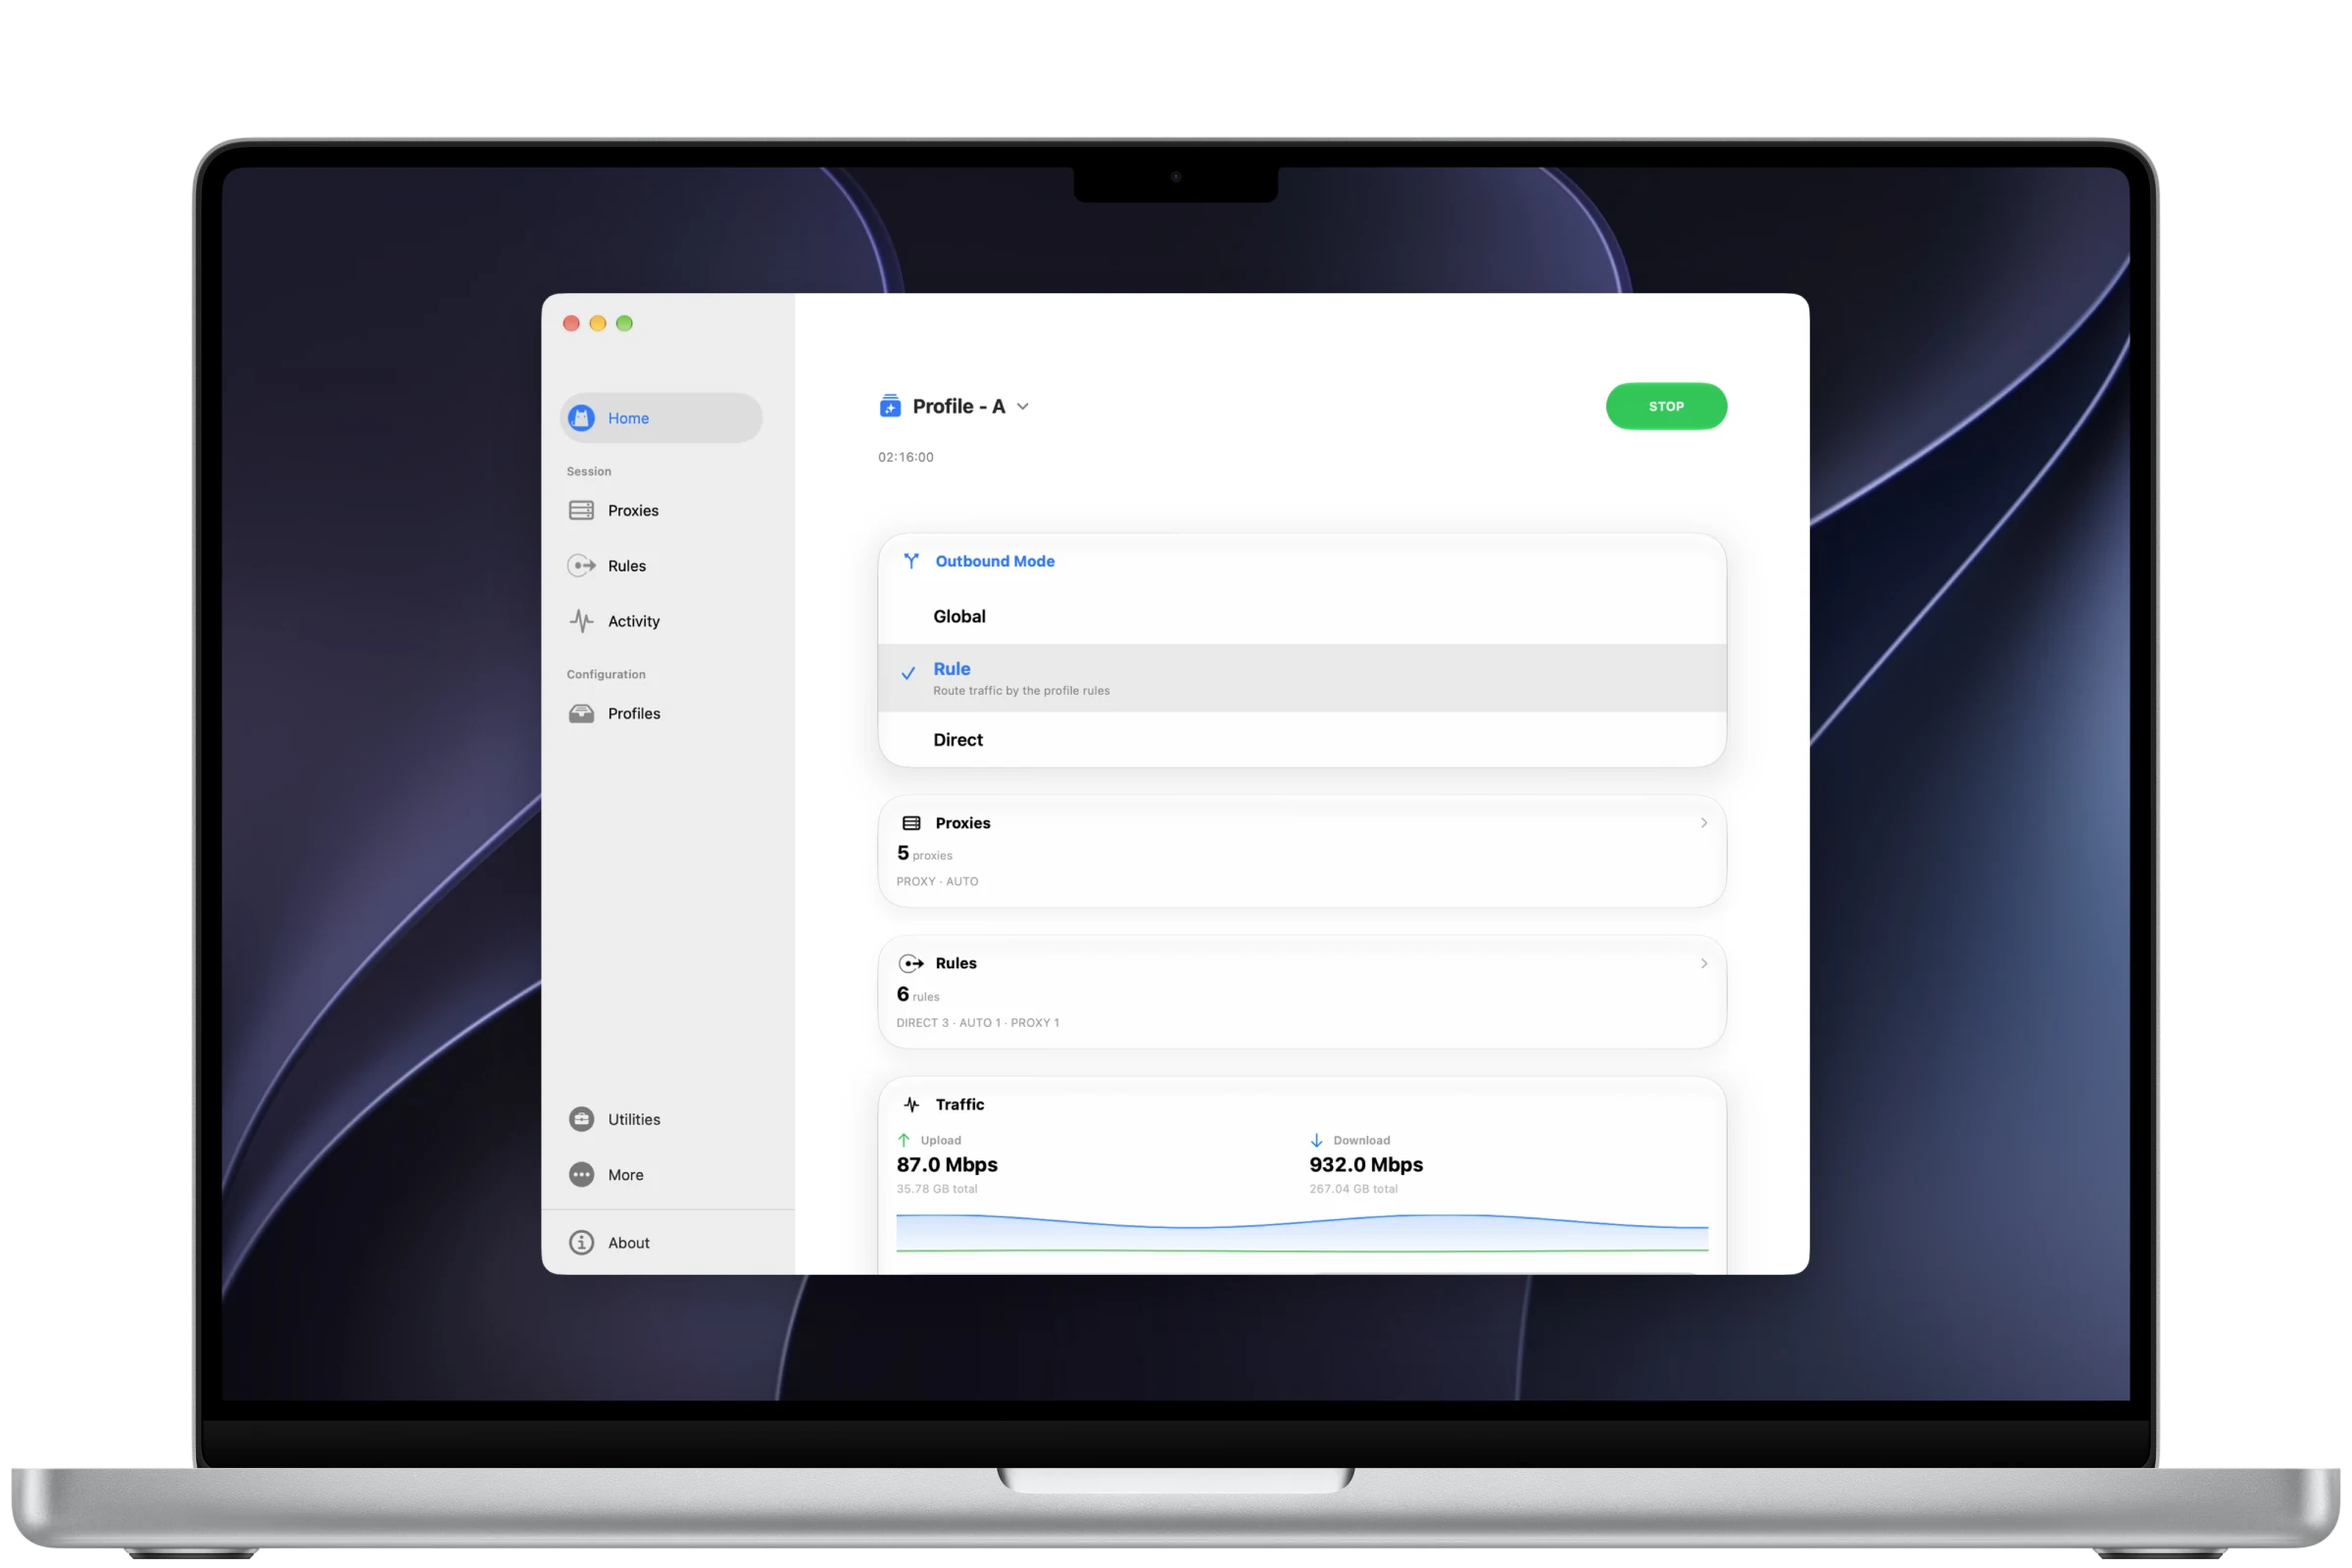
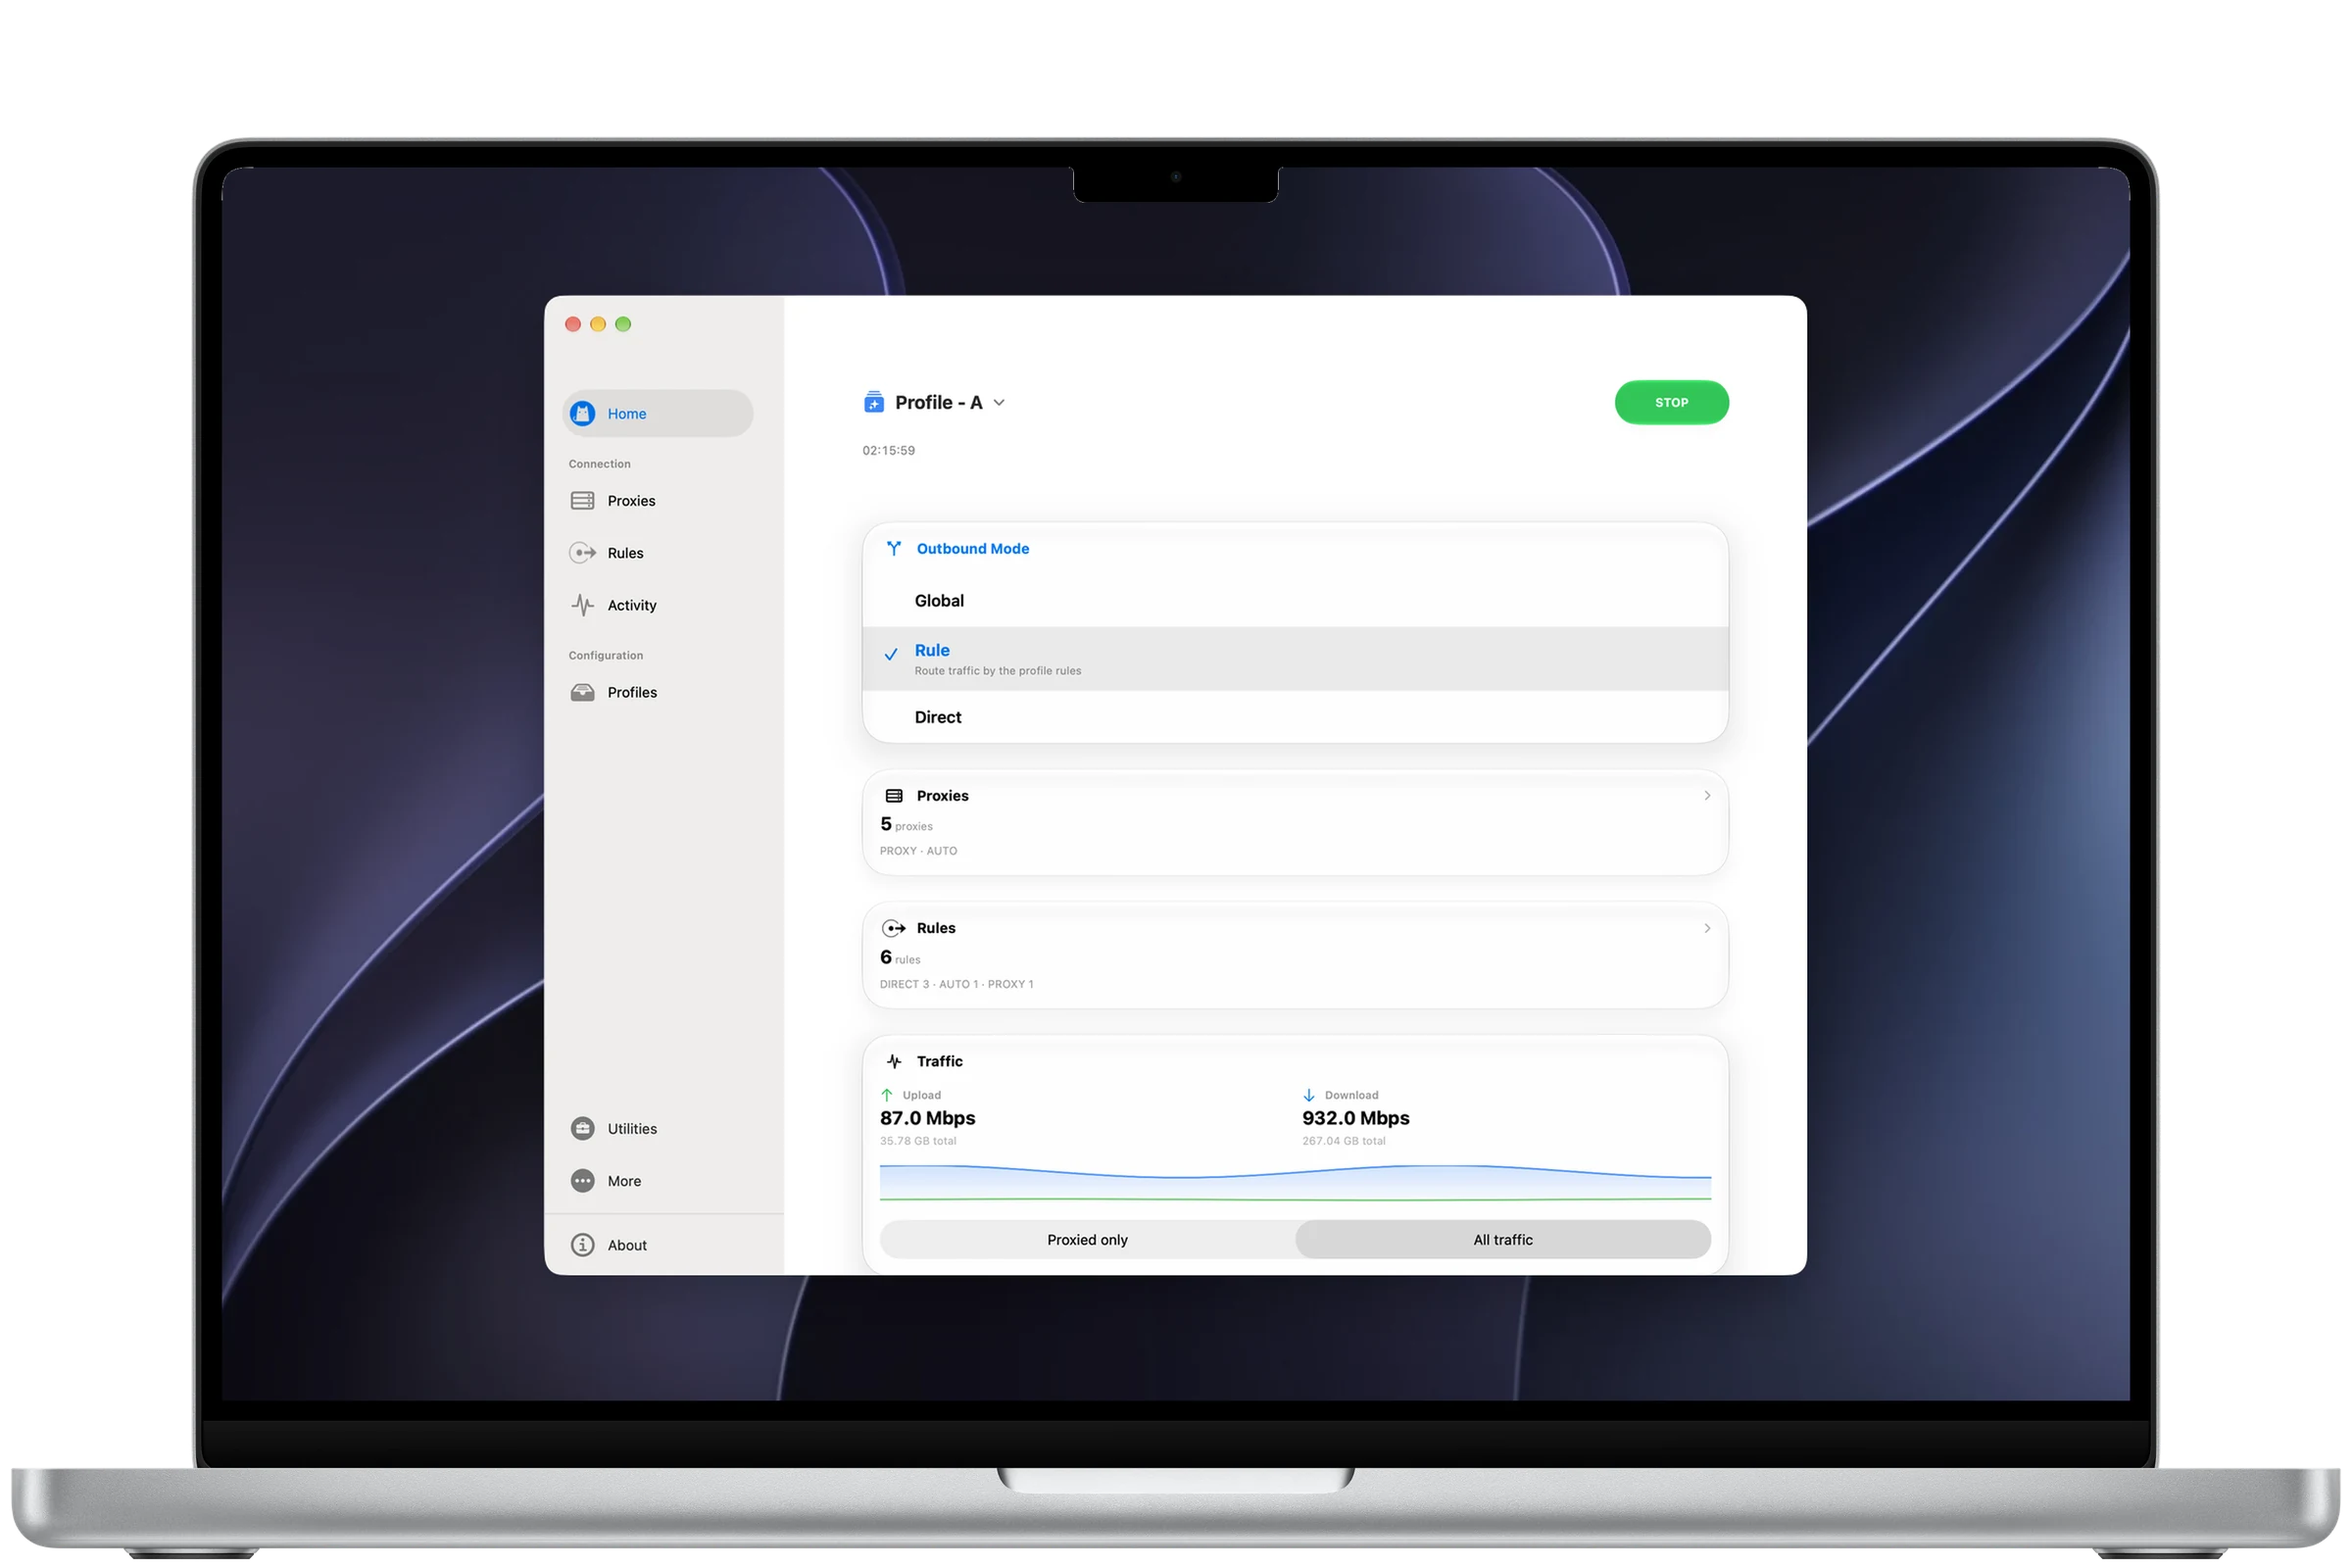
docs: Mac mode switches keep connections; refresh Mac screenshots
A test on a connected Mac confirmed what the code says: switching between
Rule, Global, and Direct leaves existing connections on their route,
except the first switch to Global when the app must pick a GLOBAL node
and Close connections on node switch is on. The Mac guide and the
everyday-use table now say so for Mac as well as iPhone and iPad.

Mac screenshots show the current sidebar, Profile Center with its three
libraries, Proxies, Rules, and Utilities, and add Activity. New windows
are placed where the old ones sat on the same wallpaper; the MacBook
frame is rendered from the same bezel. All data is example data.

Claude-Session: https://claude.ai/code/session_015AeJZnER4qeabBoE5b48Ke

diff --git a/docs/zh/platforms/macos.md b/docs/zh/platforms/macos.md
@@ -42,6 +42,6 @@ pageClass: clash-platform-page
   <article><span>06</span><h3>真正像一个 Mac App</h3><p>原生窗口、键盘、鼠标与菜单栏，用起来就是你熟悉的桌面体验。</p></article>
 </div></section>
 
-<section class="platform-gallery-section"><div class="platform-detail-heading"><p class="section-kicker">近一点看</p><h2>需要时看清楚，其余时间安静待着。</h2></div><div class="platform-screenshot-rail platform-screenshot-rail--wide" aria-label="Clash Mac 版截图"><img src="/screenshots/platforms/macos/gallery/zh-01.webp" alt="Mac 首页" loading="lazy"><img src="/screenshots/platforms/macos/gallery/zh-02.webp" alt="Mac 配置列表" loading="lazy"><img src="/screenshots/platforms/macos/gallery/zh-03.webp" alt="Mac 策略组" loading="lazy"><img src="/screenshots/platforms/macos/gallery/zh-04.webp" alt="Mac 分流规则" loading="lazy"><img src="/screenshots/platforms/macos/gallery/zh-05.webp" alt="Mac 网络工具" loading="lazy"></div></section>
+<section class="platform-gallery-section"><div class="platform-detail-heading"><p class="section-kicker">近一点看</p><h2>需要时看清楚，其余时间安静待着。</h2></div><div class="platform-screenshot-rail platform-screenshot-rail--wide" aria-label="Clash Mac 版截图"><img src="/screenshots/platforms/macos/gallery/zh-01.webp" alt="Mac 首页" loading="lazy"><img src="/screenshots/platforms/macos/gallery/zh-02.webp" alt="Mac 配置列表" loading="lazy"><img src="/screenshots/platforms/macos/gallery/zh-03.webp" alt="Mac 策略组" loading="lazy"><img src="/screenshots/platforms/macos/gallery/zh-04.webp" alt="Mac 分流规则" loading="lazy"><img src="/screenshots/platforms/macos/gallery/zh-05.webp" alt="Mac 网络工具" loading="lazy"><img src="/screenshots/platforms/macos/gallery/zh-06.webp" alt="Mac 活动：线路汇总与连接" loading="lazy"></div></section>
 
 <section class="platform-privacy-callout"><p class="section-kicker">安全与隐私</p><h2>你的 Profile。你的节点。你的流量。</h2><p>无需账户，不收集分析数据，也不会自动上传日志或诊断。Clash 客户端与 Clash Core 均已开源，整个产品都经得起检查。</p><a href="/zh/guide/privacy-model">了解隐私模型 →</a></section>

diff --git a/docs/guide/macos.md b/docs/guide/macos.md
@@ -159,12 +159,13 @@ destination.
 - **Switch Profile:** a successful switch normally ends current active
   connections. Apps that still need network access use the new Profile when
   they establish new connections. The Tunnel can remain Connected.
-- **Switch between Rule and Direct:** the mode change itself does not migrate
-  or actively close old connections. New connections use the new mode; a later
-  runtime-configuration refresh by the client can still end old connections.
-- **Switch to Global:** active connections end only when the `GLOBAL` group must
-  also change and the default **Close connections on node switch** setting is
-  enabled.
+- **Switch between Rule, Global, and Direct:** existing connections stay open
+  on their original route until they end or reconnect; new connections use the
+  new mode right away. Updating or editing the configuration later can still
+  end old connections.
+- **When switching to Global:** if the app also has to select a node in the
+  `GLOBAL` group for you, that counts as a node change, and active connections
+  end once while the default **Close connections on node switch** setting is on.
 - **Change a node manually:** active connections end when **Close connections
   on node switch** is enabled. Disabling it leaves old connections in place.
 - **Stop and reconnect the Tunnel:** all connections are interrupted; new ones

diff --git a/docs/guide/everyday-use.md b/docs/guide/everyday-use.md
@@ -119,8 +119,7 @@ or reconnect. These client behaviors also apply:
 |---|---|---|
 | Switch Profiles on iPhone, iPad, or Mac | Normally ends current active connections | After the app establishes a new connection through the new Profile |
 | Switch Profiles on Apple TV | Disconnects the Tunnel and interrupts all connections | The new Tunnel uses the selected Profile |
-| Switch between Rule and Direct on iPhone or iPad | Stay open on their original route | New connections use the new mode |
-| Switch between Rule and Direct on Mac | The mode change itself does not actively close them | New connections use the new mode; a later runtime-configuration refresh can still end old connections |
+| Switch between Rule and Direct on iPhone, iPad, or Mac | Stay open on their original route | New connections use the new mode right away |
 | Switch to Global on iPhone, iPad, or Mac | End only when the `GLOBAL` group must also change and the default close-connections setting is enabled | After the app establishes a new connection through the new mode |
 | Change a node manually on iPhone, iPad, or Mac | End when the default close-connections setting is enabled | After the app establishes a new connection through the new node |
 | Switch a mode or node on Apple TV | Remain on their original route | After they end or reconnect |

diff --git a/docs/zh/guide/macos.md b/docs/zh/guide/macos.md
@@ -138,10 +138,10 @@ App 仍可能按自身逻辑自动重连。
 
 - **切换 Profile**：成功后通常会结束当前活动连接；仍需通信的 App 自行建立
   新连接后使用新 Profile。Tunnel 可以保持 Connected。
-- **切换 Rule 与 Direct**：模式切换本身不会迁移或主动关闭旧连接，新连接使用
-  新模式；客户端随后刷新运行配置时，旧连接仍可能结束。
-- **切换到 Global**：只有还需要调整 `GLOBAL` 组，且保持默认的“切换节点时断开
-  连接”时，现有连接才会结束。
+- **切换 Rule、Global 与 Direct**：已有连接不会断开，继续走原来的路线，直到它
+  自己结束或重连；新连接立即使用新模式。之后更新或修改配置时，旧连接仍可能结束。
+- **切换到 Global 时**：如果 App 还需要在 `GLOBAL` 组里替你选中一个节点，这一步
+  算作更换节点；保持默认开启的“切换节点时断开连接”时，现有连接会结束一次。
 - **手动更换节点**：开启“切换节点时断开连接”时会结束现有连接；关闭该设置后，
   旧连接不会被主动清理。
 - **停止并重新连接 Tunnel**：全部连接中断，新 Tunnel 中的连接使用当前设置。

diff --git a/docs/zh/guide/everyday-use.md b/docs/zh/guide/everyday-use.md
@@ -108,8 +108,7 @@ Rule 模式下，它不能代表所有目标都使用同一线路。Apple TV 当
 |---|---|---|
 | iPhone、iPad 与 Mac 切换 Profile | 通常结束当前活动连接 | App 自行建立新连接后使用新 Profile |
 | Apple TV 切换 Profile | Tunnel 先断开，全部连接中断 | 新 Tunnel 使用所选 Profile |
-| iPhone 与 iPad 在 Rule 与 Direct 之间切换 | 不会断开，继续走原来的路线 | 新连接使用新模式 |
-| Mac 在 Rule 与 Direct 之间切换 | 模式切换本身不主动关闭 | 新连接使用新模式；后续运行配置刷新仍可能结束旧连接 |
+| iPhone、iPad 与 Mac 在 Rule 与 Direct 之间切换 | 不会断开，继续走原来的路线 | 新连接立即使用新模式 |
 | iPhone、iPad 与 Mac 切换到 Global | 只有还需调整 `GLOBAL` 组且默认关闭连接设置开启时，现有连接才会结束 | App 自行建立新连接后使用新模式 |
 | iPhone、iPad 与 Mac 手动切换节点 | 默认关闭连接设置开启时，现有连接会结束 | App 自行建立新连接后使用新节点 |
 | Apple TV 切换模式或节点 | 不主动关闭，继续使用原路线 | 自然结束或重新建立后 |

diff --git a/docs/platforms/macos.md b/docs/platforms/macos.md
@@ -66,7 +66,7 @@ pageClass: clash-platform-page
     <img src="/screenshots/platforms/macos/gallery/en-02.webp" alt="Profiles on Mac" loading="lazy">
     <img src="/screenshots/platforms/macos/gallery/en-03.webp" alt="Policy groups on Mac" loading="lazy">
     <img src="/screenshots/platforms/macos/gallery/en-04.webp" alt="Routing rules on Mac" loading="lazy">
-    <img src="/screenshots/platforms/macos/gallery/en-05.webp" alt="Network utilities on Mac" loading="lazy">
+    <img src="/screenshots/platforms/macos/gallery/en-05.webp" alt="Network utilities on Mac" loading="lazy"><img src="/screenshots/platforms/macos/gallery/en-06.webp" alt="Activity on Mac: route totals and connections" loading="lazy">
   </div>
 </section>
 
